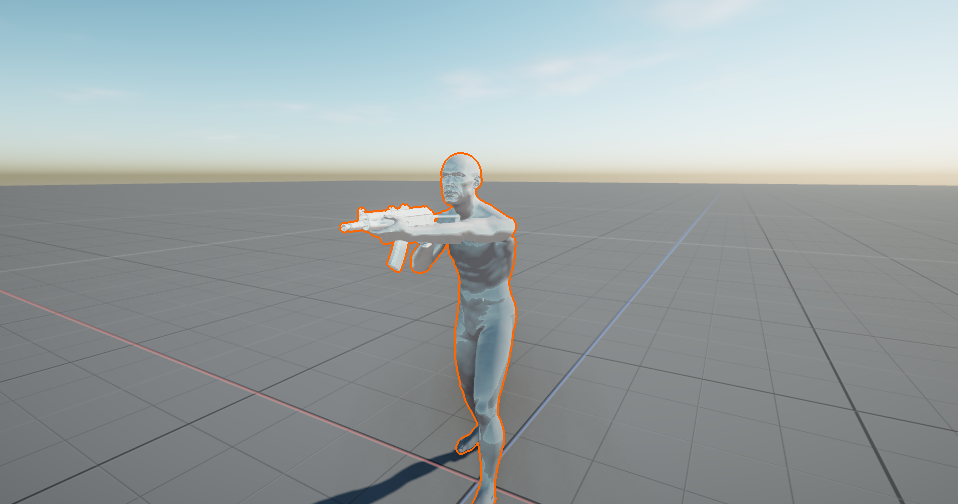
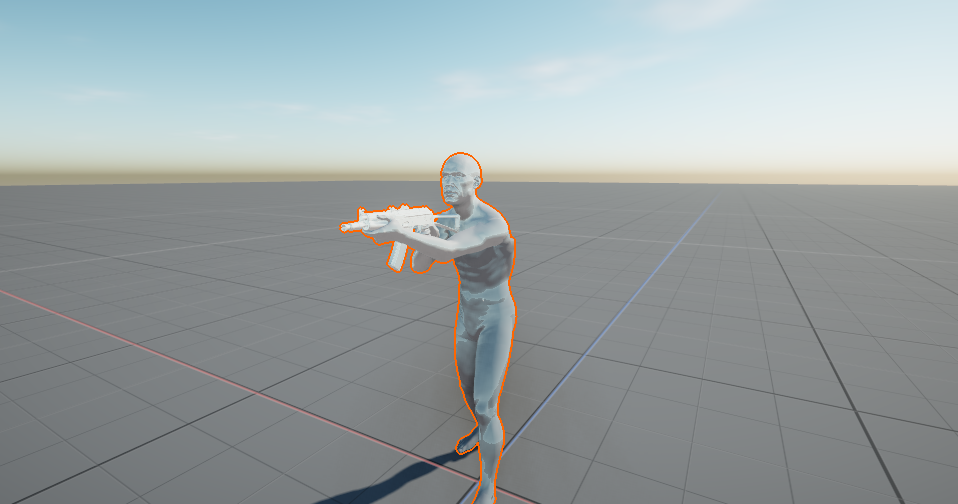
Correct AK left shoulder reach in AnimationSetup

Changed region(s): [[0.3633, 0.4167, 0.5449, 0.5357]]

diff --git a/src/editor/Editor.cpp b/src/editor/Editor.cpp
@@ -1249,6 +1249,20 @@ void Editor::RunPlaytest()
             {
                 const glm::vec3 forward = glm::normalize(-glm::vec3(weaponBone[2]));
                 LOG_INFO("[playtest] weapon forward (%.3f %.3f %.3f)", forward.x, forward.y, forward.z);
+                for (const char* side : { "l", "r" })
+                {
+                    glm::mat4 upper(1.0f), lower(1.0f), hand(1.0f), grip(1.0f);
+                    const std::string suffix(side);
+                    if (!m_Animation.BoneModelMatrix(e.id, "upperarm_" + suffix, upper) ||
+                        !m_Animation.BoneModelMatrix(e.id, "lowerarm_" + suffix, lower) ||
+                        !m_Animation.BoneModelMatrix(e.id, "hand_" + suffix, hand) ||
+                        !m_Animation.BoneModelMatrix(e.id, "vb_ak_hand_" + suffix, grip)) continue;
+                    const glm::vec3 a(upper[3]), b(lower[3]), c(hand[3]), target(grip[3]);
+                    const float reach = glm::length(b - a) + glm::length(c - b);
+                    const float desired = glm::length(target - a);
+                    LOG_INFO("[playtest] %s arm target %.3f m / reach %.3f m, hand error %.3f m",
+                             side, desired, reach, glm::length(c - target));
+                }
             }
         }
         if (!p.captureDir.empty() && m_Renderer->HasTarget(SceneRenderer::GameViewId) && m_PlayTime > 0.0f)

diff --git a/src/editor/SelfTest.cpp b/src/editor/SelfTest.cpp
@@ -1702,6 +1702,8 @@ public class AnimApiDefaults : MonoBehaviour
                 }
                 const float leftError = glm::length(glm::vec3(handL[3] - gripL[3]));
                 const float rightError = glm::length(glm::vec3(handR[3] - gripR[3]));
+                t.Check(leftError < 0.005f && rightError < 0.005f,
+                        "AE AK hands stay on weapon grips after rig IK");
                 std::ofstream out(metricsPath, std::ios::app);
                 out << name << ',' << pitch << ',' << yaw << ',' << position.x << ',' << position.y << ',' << position.z << ','
                     << forward.x << ',' << forward.y << ',' << forward.z << ',' << leftError << ',' << rightError << '\n';

diff --git a/docs/projects-assets.md b/docs/projects-assets.md
@@ -6,6 +6,8 @@ A TheEngine project is a directory with `Assets/`, `Library/` and `ProjectSettin
 
 `C:\Users\nickr\Desktop\AnimationSetup` is the editor project for the AK work. It opens `Assets/Scenes/AK_Aiming.scene`, which assigns `Assets/AK/Rigs/AE_AK.rig` and `Assets/Animators/AK_Aim.controller` to the Quantum player, sockets the AE AK weapon to `vb_ak_weapon`, and uses `AKAimController.cs` for spine look. Hold right mouse and move the mouse, or use I/J/K/L to aim up/left/down/right. The original `Assets/Scenes/AnimationSetup.scene`, `Player.controller` and `PlayerController.cs` remain available for locomotion. Run `tools/Install-AkAnimationSetup.ps1` from the engine repository to recreate the AK scene and assets in this project.
 
+The AK rig rotates the left clavicle forward before Two Bone IK so the authored support-hand grip remains within arm reach. Its `twobone` controls solve both arms; keep the Animator's older `handIk` option disabled in this scene, or that second pass will pull the hands away from the weapon when the spine aims.
+
 ## Asset types and references
 
 The Project window shows files in `Assets/`, supports search, import, rename, drag-to-move and thumbnail previews. Mesh references use a built-in primitive name or `Assets/.../model.ext#<mesh index>`. Materials use `.mat`; scenes use `.scene`; prefabs use `.prefab`; TheEngine Animator Controllers use `.controller`. These text formats are engine-specific even when their names resemble Unity assets.
